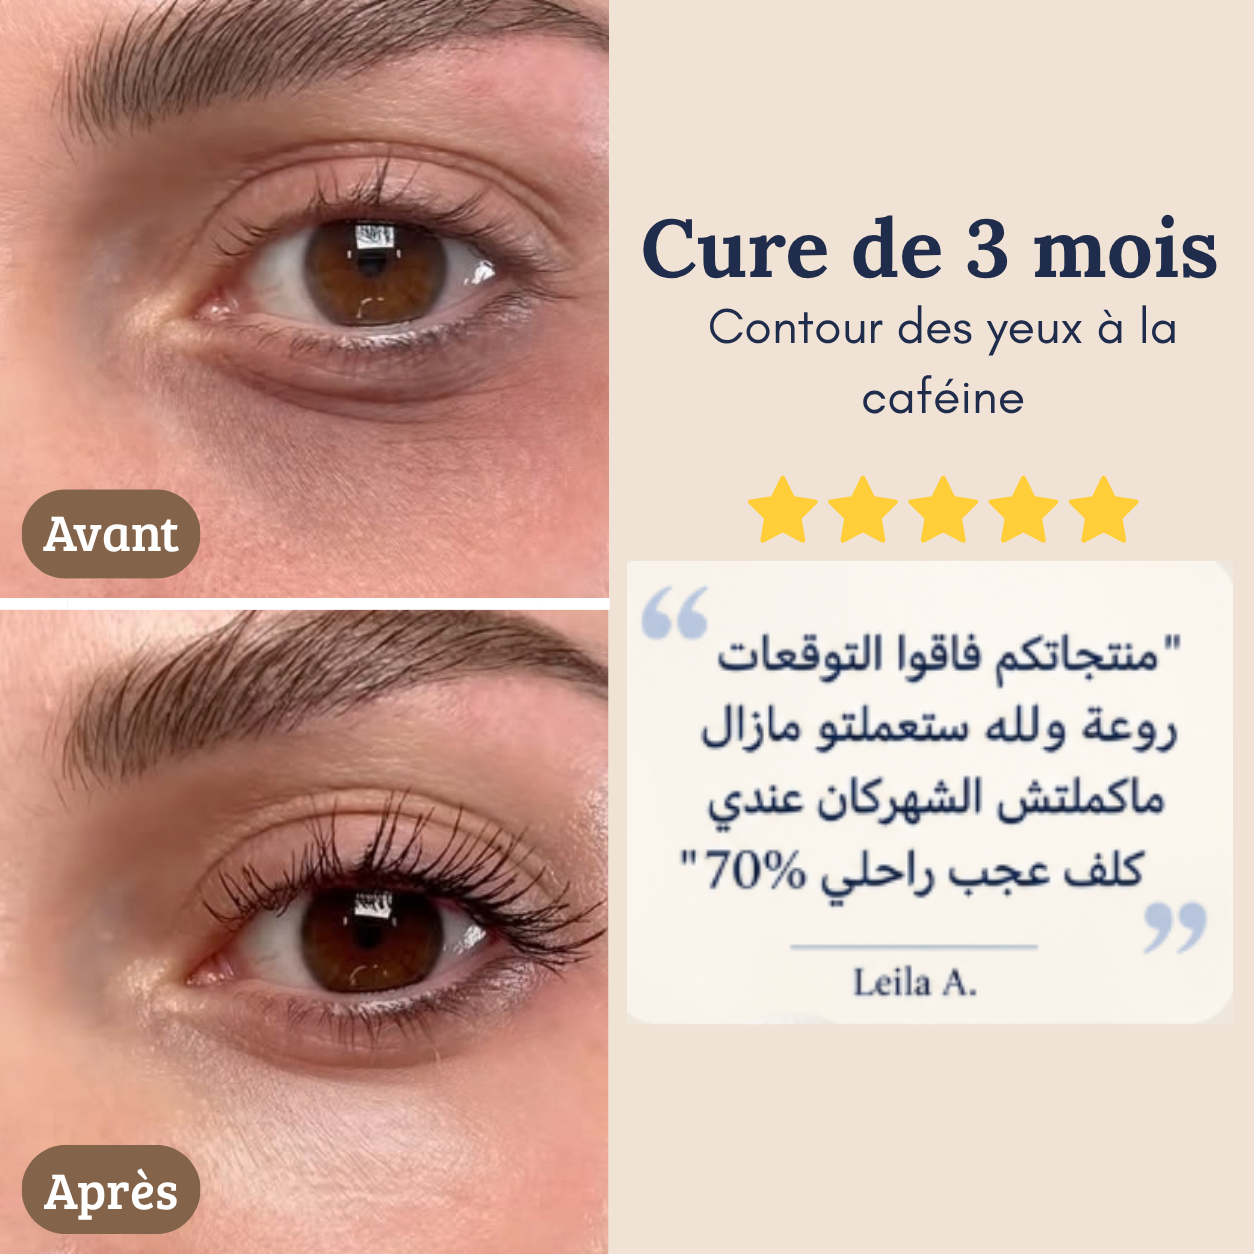
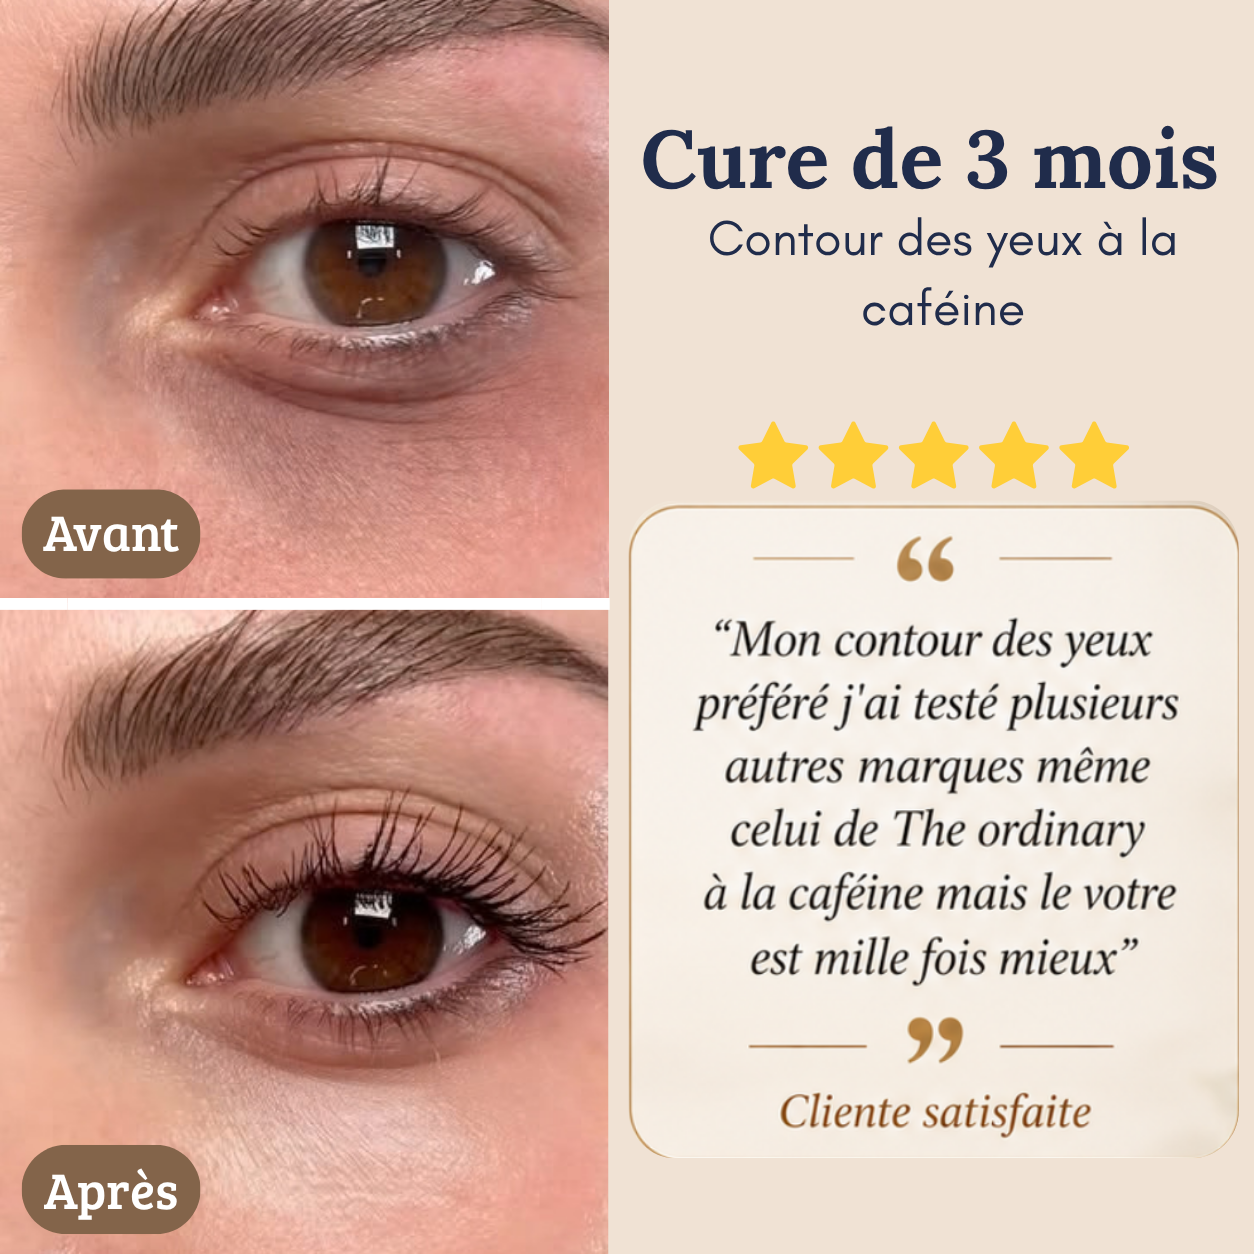
update retinol contour

diff --git a/lib/product-content.ts b/lib/product-content.ts
@@ -683,8 +683,14 @@ export const PRODUCT_CONTENT: Record<string, ProductContent> = {
   "gentle-cleanser": {
     category: "Contour des yeux",
     badge: null,
-    // Product shot only — no model photos in the gallery
-    gallery: ["/images/products/collagene_contour.png"],
+    // Product shot first, then the branded visuals
+    gallery: [
+      "/images/products/collagene_contour.png",
+      "/images/products/gentle-cleanser/gallery-cure.png",
+      "/images/products/gentle-cleanser/gallery-resultats.png",
+      "/images/products/gentle-cleanser/gallery-rituel.png",
+      "/images/products/gentle-cleanser/gallery-comparatif.png",
+    ],
     promise: null,
     benefits: [
       { icon: "hydrate", label: "Hydratation profonde" },
@@ -756,15 +762,73 @@ export const PRODUCT_CONTENT: Record<string, ProductContent> = {
       },
       { question: "Quels sont les délais de livraison ?", answer: DELIVERY_ANSWER },
     ],
-    testimonials: [],
+    // Placeholder: copied from the Niacinamide pads purely for the structure.
+    // Names, dates and quotes all need replacing with this product's own.
+    testimonials: [
+      {
+        name: "Amira L.",
+        since: "Il y a 2 semaines",
+        quote: "Mon contour des yeux préféré j'ai testé plusieurs autres marques même celui de The ordinary à la caféine mais le votre est mille fois mieux",
+        image: "/images/products/niacinamide/avis-sarah.png",
+        rating: 5,
+      },
+      {
+        name: "Selma C.",
+        since: "Il y a 1 mois",
+        quote: "هايل يعطيكم الصحة واحد الانتعاش سورتو مور ما حطيتو فلفريجيدار",
+        image: "/images/products/niacinamide/avis-ines.png",
+        rating: 5,
+      },
+      {
+        name: "Esma B.",
+        since: "Il y a 1 semaine",
+        quote: " J'ai adoré l'hydratation tient plusieurs heures et l'odeur magnifique",
+        image: "/images/products/niacinamide/avis-nour.png",
+        rating: 5,
+      },
+      {
+        name: "Siham B.",
+        since: "Il y a 3 semaines",
+        quote: "Une très belle découverte ce produit d'habitude j'utilise des marques d'importation mais celui là est devenu mon préféré",
+        image: "/images/products/niacinamide/avis-amel.png",
+        rating: 5,
+      },
+      {
+        name: "Assia C.",
+        since: "Il y a 3 semaines",
+        quote: "J'ai essayé votre produit je l'aime trop Ms vraiment c'est une découverte votre marque",
+        image: "/images/products/niacinamide/avis-amel.png",
+        rating: 5,
+      },
+      {
+        name: "Sonia Z.",
+        since: "Il y a 3 semaines",
+        quote: "هذي ماشاء اللّٰه خرجت على وجهي هبال اللهم بارك حبيت نزيد ليا ونديرها كادوان شاء اللّٰه",
+        image: "/images/products/niacinamide/avis-amel.png",
+        rating: 5,
+      },
+      {
+        name: "naima B.",
+        since: "Il y a 3 semaines",
+        quote: "hayel même pour l'ydratation il est 2 en 1",
+        image: "/images/products/niacinamide/avis-amel.png",
+        rating: 5,
+      },
+      
+    ],
     brandScene: null,
   },
 
   "night-cream": {
     category: "Contour des yeux",
     badge: null,
-    // Product shot only — no model photos in the gallery
-    gallery: ["/images/products/retinol_contour.png"],
+    // Product shot first, then the branded visuals
+    gallery: [
+      "/images/products/retinol_contour.png",
+      "/images/products/night-cream/gallery-cure.png",
+      "/images/products/night-cream/gallery-resultats.png",
+      "/images/products/night-cream/gallery-rituel.png",
+    ],
     promise: null,
     benefits: [
       { icon: "antiage", label: "Réduit l'apparence des rides et ridules" },
@@ -773,7 +837,17 @@ export const PRODUCT_CONTENT: Record<string, ProductContent> = {
       { icon: "hydrate", label: "Lisse le contour de l'œil" },
     ],
     lifestyle: null,
-    results: null,
+    // Customer photos. No measured figures for this one yet, so the stats
+    // tiles and the test note stay empty and the section skips them.
+    results: {
+      images: [
+        { src: "/images/products/night-cream/before-after-1.jpg" },
+        { src: "/images/products/night-cream/before-after-2.jpg" },
+        { src: "/images/products/night-cream/before-after-3.jpg" },
+      ],
+      stats: [],
+      note: "",
+    },
     actives: [
       {
         name: "Rétinol",
@@ -836,7 +910,106 @@ export const PRODUCT_CONTENT: Record<string, ProductContent> = {
       },
       { question: "Quels sont les délais de livraison ?", answer: DELIVERY_ANSWER },
     ],
-    testimonials: [],
+    // Customer photos, served exactly as supplied. Titles name what each one
+    // shows rather than a duration, since no timings were given.
+    milestones: [
+      {
+        src: "/images/products/night-cream/resultat-1.jpg",
+        title: "Cernes et relief",
+        description:
+          "Le creux sous l'œil est comblé et l'ombre bleutée s'éclaircit : le regard paraît reposé.",
+        tags: ["Cernes atténués", "Contour repulpé", "Regard reposé"],
+      },
+      {
+        src: "/images/products/night-cream/resultat-2.jpg",
+        title: "Ridules du coin de l'œil",
+        description:
+          "Les ridules au coin de l'œil sont lissées et la peau du contour paraît plus souple.",
+        tags: ["Ridules lissées", "Peau assouplie", "Contour plus ferme"],
+      },
+      {
+        src: "/images/products/night-cream/resultat-3.jpg",
+        title: "Rides et texture",
+        description:
+          "Les rides installées sous l'œil s'adoucissent et le grain de peau du contour est plus régulier.",
+        tags: ["Rides adoucies", "Texture affinée", "Teint unifié"],
+      },
+      {
+        src: "/images/products/night-cream/resultat-4.jpg",
+        title: "Peau froissée",
+        description:
+          "L'aspect froissé sous l'œil est visiblement réduit et la peau retrouve de la tenue.",
+        tags: ["Peau lissée", "Fermeté améliorée", "Contour défatigué"],
+      },
+      {
+        src: "/images/products/night-cream/resultat-5.jpg",
+        title: "Pattes d'oie",
+        description:
+          "Les pattes d'oie sont estompées, y compris lorsque le regard est en mouvement.",
+        tags: ["Pattes d'oie estompées", "Contour lissé", "Éclat du regard"],
+      },
+      {
+        src: "/images/products/night-cream/resultat-6.jpg",
+        title: "Contour fatigué",
+        description:
+          "Le contour est plus lisse et plus lumineux, pour un regard nettement moins marqué.",
+        tags: ["Contour lissé", "Regard lumineux", "Rides réduites"],
+      },
+    ],
+    // Placeholder: copied from the Niacinamide pads purely for the structure.
+    // Names, dates and quotes all need replacing with this product's own.
+    testimonials: [
+      {
+        name: "Amira L.",
+        since: "Il y a 2 semaines",
+        quote: "Mon contour des yeux préféré j'ai testé plusieurs autres marques même celui de The ordinary à la caféine mais le votre est mille fois mieux",
+        image: "/images/products/niacinamide/avis-sarah.png",
+        rating: 5,
+      },
+      {
+        name: "Selma C.",
+        since: "Il y a 1 mois",
+        quote: "هايل يعطيكم الصحة واحد الانتعاش سورتو مور ما حطيتو فلفريجيدار",
+        image: "/images/products/niacinamide/avis-ines.png",
+        rating: 5,
+      },
+      {
+        name: "Esma B.",
+        since: "Il y a 1 semaine",
+        quote: " J'ai adoré l'hydratation tient plusieurs heures et l'odeur magnifique",
+        image: "/images/products/niacinamide/avis-nour.png",
+        rating: 5,
+      },
+      {
+        name: "Siham B.",
+        since: "Il y a 3 semaines",
+        quote: "Une très belle découverte ce produit d'habitude j'utilise des marques d'importation mais celui là est devenu mon préféré",
+        image: "/images/products/niacinamide/avis-amel.png",
+        rating: 5,
+      },
+      {
+        name: "Assia C.",
+        since: "Il y a 3 semaines",
+        quote: "J'ai essayé votre produit je l'aime trop Ms vraiment c'est une découverte votre marque",
+        image: "/images/products/niacinamide/avis-amel.png",
+        rating: 5,
+      },
+      {
+        name: "Sonia Z.",
+        since: "Il y a 3 semaines",
+        quote: "هذي ماشاء اللّٰه خرجت على وجهي هبال اللهم بارك حبيت نزيد ليا ونديرها كادوان شاء اللّٰه",
+        image: "/images/products/niacinamide/avis-amel.png",
+        rating: 5,
+      },
+      {
+        name: "naima B.",
+        since: "Il y a 3 semaines",
+        quote: "hayel même pour l'ydratation il est 2 en 1",
+        image: "/images/products/niacinamide/avis-amel.png",
+        rating: 5,
+      },
+      
+    ],
     brandScene: null,
   },
 

diff --git a/app/product/[id]/page.tsx b/app/product/[id]/page.tsx
@@ -89,7 +89,7 @@ const products: Record<string, {
     id: "gentle-cleanser",
     name: "Contour des yeux au collagène",
     tagline: "enrichi en collagène et acide hyaluronique, ce sérum hydrate et repulpe le contour de l'oeil",
-    description: "ce sérum hydrate et nourrit la peau délicate du contour des yeux et aide à réduire l'apparence des rides et ridules. il apporte une nutrition intense et une hydratation profonde.",
+    description: "",
     price: 900,
     originalPrice: null,
     image: "/images/products/collagene_contour.png",
@@ -103,7 +103,7 @@ const products: Record<string, {
     id: "night-cream",
     name: "Contour des yeux au rétinol",
     tagline: "enrichi en rétinol, ce sérum est votre allié anti-âge. ",
-    description: "ce gel contour des yeux au rétinol aide à réduire l’apparence des rides et ridules, améliore la fermeté de la peau pour un contour des yeux plus lisse et plus lumineux, il contribue à raviver l’éclat du regard.",
+    description: "",
     price: 900,
     originalPrice: null,
     image: "/images/products/retinol_contour.png",
